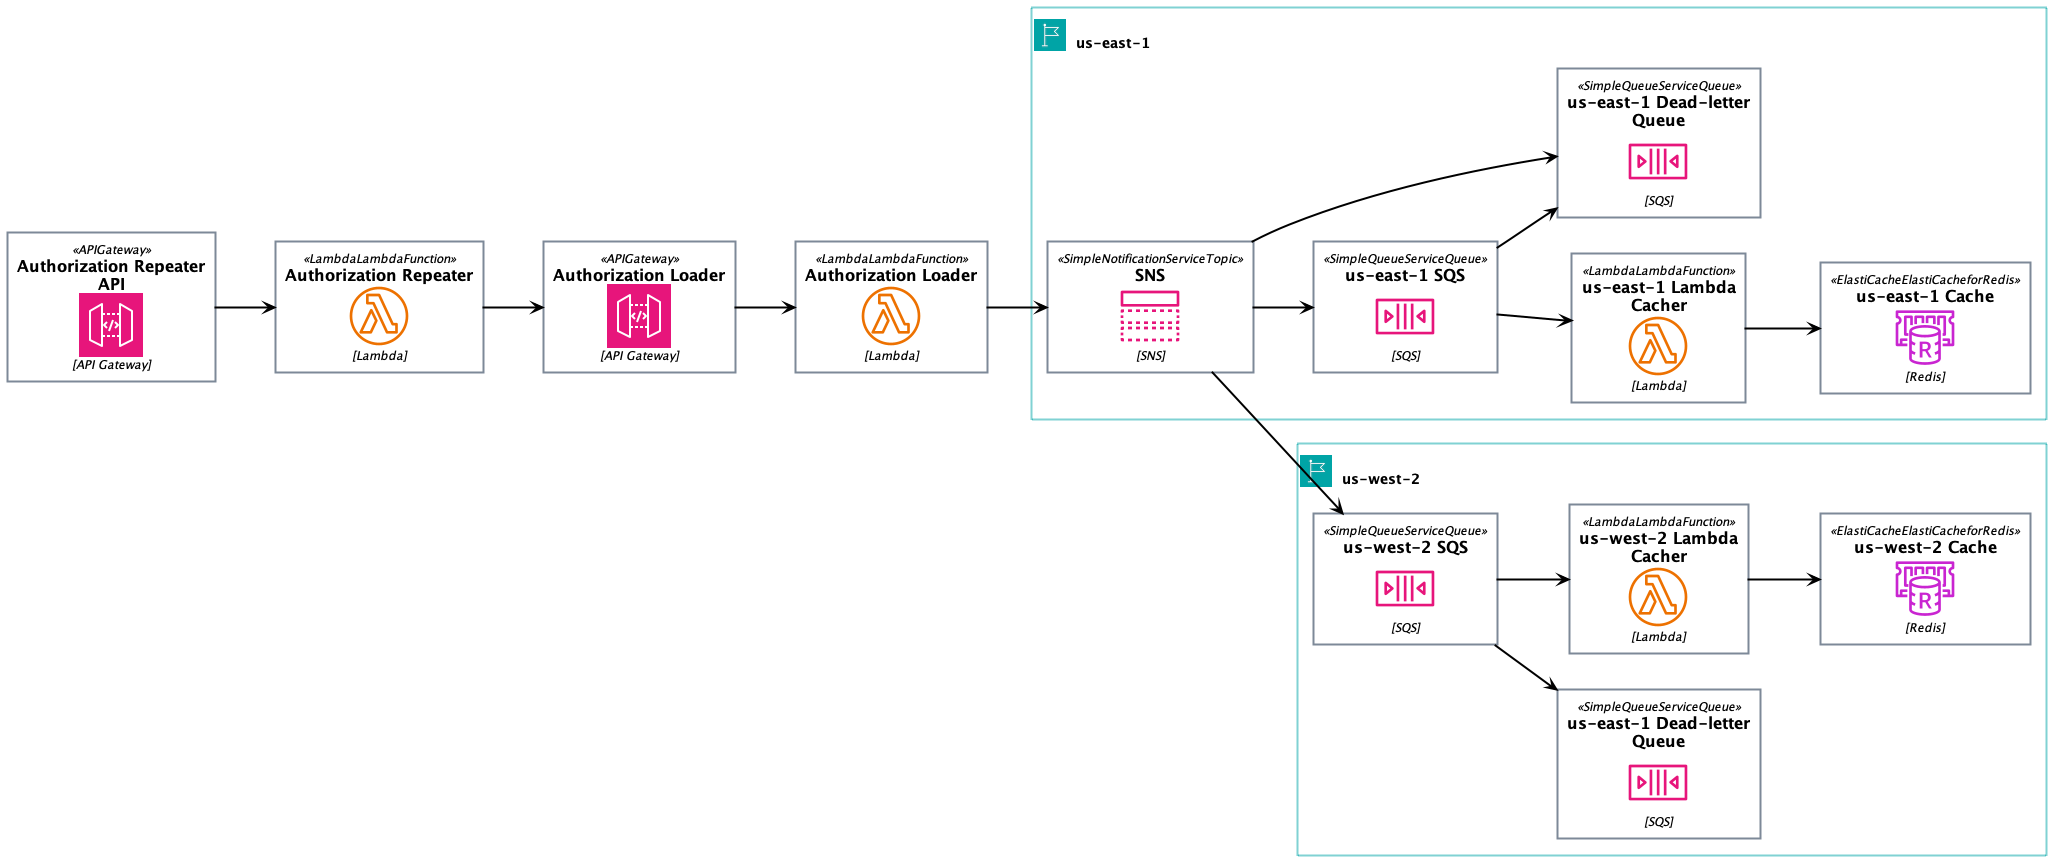
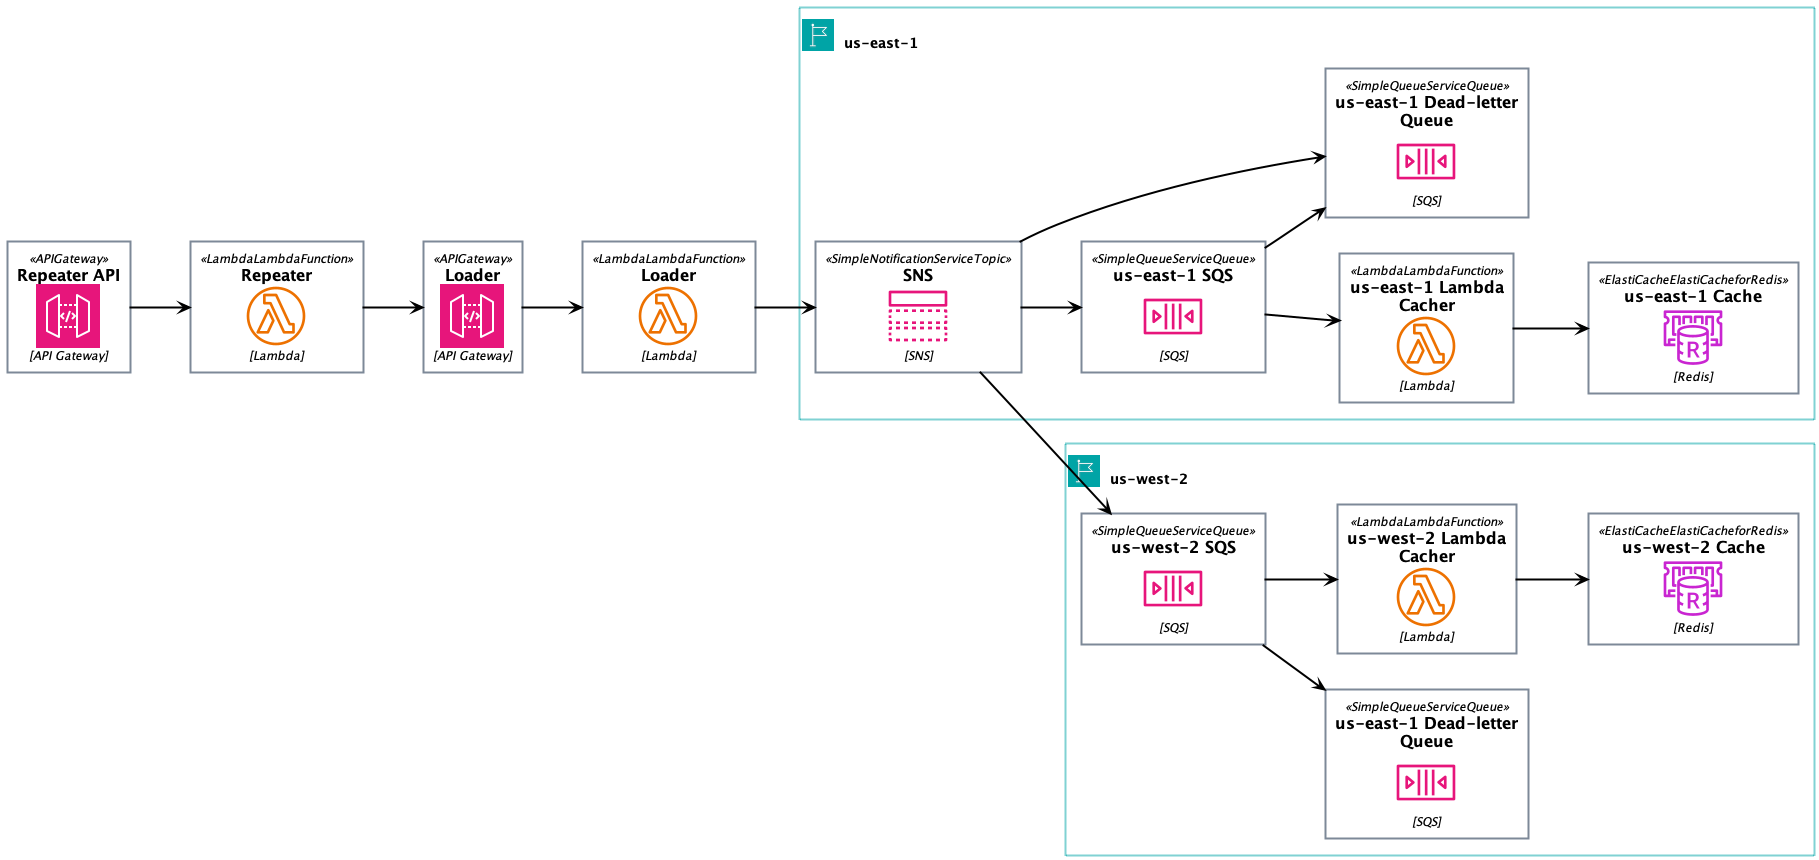
Remove "auth" from every resources

diff --git a/solution/lib/solution-stack.ts b/solution/lib/solution-stack.ts
@@ -97,13 +97,13 @@ export class SolutionStack extends Stack {
       value: this.securityGroup.securityGroupId
     });
 
-    new CfnOutput(this, 'CardAuthQueueARN', {
-      exportName: 'CardAuthQueueARN',
+    new CfnOutput(this, 'QueueARN', {
+      exportName: 'QueueARN',
       value: this.sqs.queueArn
     });
 
-    new CfnOutput(this, 'CardAuthQueueURL', {
-      exportName: 'CardAuthQueueURL',
+    new CfnOutput(this, 'QueueURL', {
+      exportName: 'QueueURL',
       value: this.sqs.queueUrl
     });
 

diff --git a/elasticache_query/README.md b/elasticache_query/README.md
@@ -1,4 +1,4 @@
-# auth-loader
+# ecquery
 
 This project contains source code and supporting files for a serverless application that you can deploy with the SAM CLI. It includes the following files and folders.
 
@@ -56,7 +56,7 @@ You can find your API Gateway Endpoint URL in the output values displayed after 
 Build your application with the `sam build` command.
 
 ```bash
-auth-loader$ sam build
+ecquery$ sam build
 ```
 
 The SAM CLI installs dependencies defined in `hello-world/package.json`, compiles TypeScript with esbuild, creates a deployment package, and saves it in the `.aws-sam/build` folder.
@@ -66,14 +66,14 @@ Test a single function by invoking it directly with a test event. An event is a 
 Run functions locally and invoke them with the `sam local invoke` command.
 
 ```bash
-auth-loader$ sam local invoke HelloWorldFunction --event events/event.json
+ecquery$ sam local invoke HelloWorldFunction --event events/event.json
 ```
 
 The SAM CLI can also emulate your application's API. Use the `sam local start-api` to run the API locally on port 3000.
 
 ```bash
-auth-loader$ sam local start-api
-auth-loader$ curl http://localhost:3000/
+ecquery$ sam local start-api
+ecquery$ curl http://localhost:3000/
 ```
 
 The SAM CLI reads the application template to determine the API's routes and the functions that they invoke. The `Events` property on each function's definition includes the route and method for each path.
@@ -97,7 +97,7 @@ To simplify troubleshooting, SAM CLI has a command called `sam logs`. `sam logs`
 `NOTE`: This command works for all AWS Lambda functions; not just the ones you deploy using SAM.
 
 ```bash
-auth-loader$ sam logs -n HelloWorldFunction --stack-name auth-loader --tail
+ecquery$ sam logs -n HelloWorldFunction --stack-name ecquery --tail
 ```
 
 You can find more information and examples about filtering Lambda function logs in the [SAM CLI Documentation](https://docs.aws.amazon.com/serverless-application-model/latest/developerguide/serverless-sam-cli-logging.html).
@@ -107,7 +107,7 @@ You can find more information and examples about filtering Lambda function logs 
 Tests are defined in the `hello-world/tests` folder in this project. Use NPM to install the [Jest test framework](https://jestjs.io/) and run unit tests.
 
 ```bash
-auth-loader$ cd hello-world
+ecquery$ cd hello-world
 hello-world$ npm install
 hello-world$ npm run test
 ```
@@ -117,7 +117,7 @@ hello-world$ npm run test
 To delete the sample application that you created, use the AWS CLI. Assuming you used your project name for the stack name, you can run the following:
 
 ```bash
-sam delete --stack-name auth-loader
+sam delete --stack-name ecquery
 ```
 
 ## Resources

diff --git a/cacher/README.md b/cacher/README.md
@@ -1,4 +1,4 @@
-# auth-loader
+# cacher
 
 This project contains source code and supporting files for a serverless application that you can deploy with the SAM CLI. It includes the following files and folders.
 
@@ -56,7 +56,7 @@ You can find your API Gateway Endpoint URL in the output values displayed after 
 Build your application with the `sam build` command.
 
 ```bash
-auth-loader$ sam build
+cacher$ sam build
 ```
 
 The SAM CLI installs dependencies defined in `hello-world/package.json`, compiles TypeScript with esbuild, creates a deployment package, and saves it in the `.aws-sam/build` folder.
@@ -66,14 +66,14 @@ Test a single function by invoking it directly with a test event. An event is a 
 Run functions locally and invoke them with the `sam local invoke` command.
 
 ```bash
-auth-loader$ sam local invoke HelloWorldFunction --event events/event.json
+cacher$ sam local invoke HelloWorldFunction --event events/event.json
 ```
 
 The SAM CLI can also emulate your application's API. Use the `sam local start-api` to run the API locally on port 3000.
 
 ```bash
-auth-loader$ sam local start-api
-auth-loader$ curl http://localhost:3000/
+cacher$ sam local start-api
+cacher$ curl http://localhost:3000/
 ```
 
 The SAM CLI reads the application template to determine the API's routes and the functions that they invoke. The `Events` property on each function's definition includes the route and method for each path.
@@ -97,7 +97,7 @@ To simplify troubleshooting, SAM CLI has a command called `sam logs`. `sam logs`
 `NOTE`: This command works for all AWS Lambda functions; not just the ones you deploy using SAM.
 
 ```bash
-auth-loader$ sam logs -n HelloWorldFunction --stack-name auth-loader --tail
+cacher$ sam logs -n HelloWorldFunction --stack-name cacher --tail
 ```
 
 You can find more information and examples about filtering Lambda function logs in the [SAM CLI Documentation](https://docs.aws.amazon.com/serverless-application-model/latest/developerguide/serverless-sam-cli-logging.html).
@@ -107,7 +107,7 @@ You can find more information and examples about filtering Lambda function logs 
 Tests are defined in the `hello-world/tests` folder in this project. Use NPM to install the [Jest test framework](https://jestjs.io/) and run unit tests.
 
 ```bash
-auth-loader$ cd hello-world
+cacher$ cd hello-world
 hello-world$ npm install
 hello-world$ npm run test
 ```
@@ -117,7 +117,7 @@ hello-world$ npm run test
 To delete the sample application that you created, use the AWS CLI. Assuming you used your project name for the stack name, you can run the following:
 
 ```bash
-sam delete --stack-name auth-loader
+sam delete --stack-name cacher
 ```
 
 ## Resources

diff --git a/loader/README.md b/loader/README.md
@@ -1,4 +1,4 @@
-# auth-loader
+# loader
 
 This project contains source code and supporting files for a serverless application that you can deploy with the SAM CLI. It includes the following files and folders.
 
@@ -56,7 +56,7 @@ You can find your API Gateway Endpoint URL in the output values displayed after 
 Build your application with the `sam build` command.
 
 ```bash
-auth-loader$ sam build
+loader$ sam build
 ```
 
 The SAM CLI installs dependencies defined in `hello-world/package.json`, compiles TypeScript with esbuild, creates a deployment package, and saves it in the `.aws-sam/build` folder.
@@ -66,14 +66,14 @@ Test a single function by invoking it directly with a test event. An event is a 
 Run functions locally and invoke them with the `sam local invoke` command.
 
 ```bash
-auth-loader$ sam local invoke HelloWorldFunction --event events/event.json
+loader$ sam local invoke HelloWorldFunction --event events/event.json
 ```
 
 The SAM CLI can also emulate your application's API. Use the `sam local start-api` to run the API locally on port 3000.
 
 ```bash
-auth-loader$ sam local start-api
-auth-loader$ curl http://localhost:3000/
+loader$ sam local start-api
+loader$ curl http://localhost:3000/
 ```
 
 The SAM CLI reads the application template to determine the API's routes and the functions that they invoke. The `Events` property on each function's definition includes the route and method for each path.
@@ -97,7 +97,7 @@ To simplify troubleshooting, SAM CLI has a command called `sam logs`. `sam logs`
 `NOTE`: This command works for all AWS Lambda functions; not just the ones you deploy using SAM.
 
 ```bash
-auth-loader$ sam logs -n HelloWorldFunction --stack-name auth-loader --tail
+loader$ sam logs -n HelloWorldFunction --stack-name loader --tail
 ```
 
 You can find more information and examples about filtering Lambda function logs in the [SAM CLI Documentation](https://docs.aws.amazon.com/serverless-application-model/latest/developerguide/serverless-sam-cli-logging.html).
@@ -107,7 +107,7 @@ You can find more information and examples about filtering Lambda function logs 
 Tests are defined in the `hello-world/tests` folder in this project. Use NPM to install the [Jest test framework](https://jestjs.io/) and run unit tests.
 
 ```bash
-auth-loader$ cd hello-world
+loader$ cd hello-world
 hello-world$ npm install
 hello-world$ npm run test
 ```
@@ -117,7 +117,7 @@ hello-world$ npm run test
 To delete the sample application that you created, use the AWS CLI. Assuming you used your project name for the stack name, you can run the following:
 
 ```bash
-sam delete --stack-name auth-loader
+sam delete --stack-name loader
 ```
 
 ## Resources
